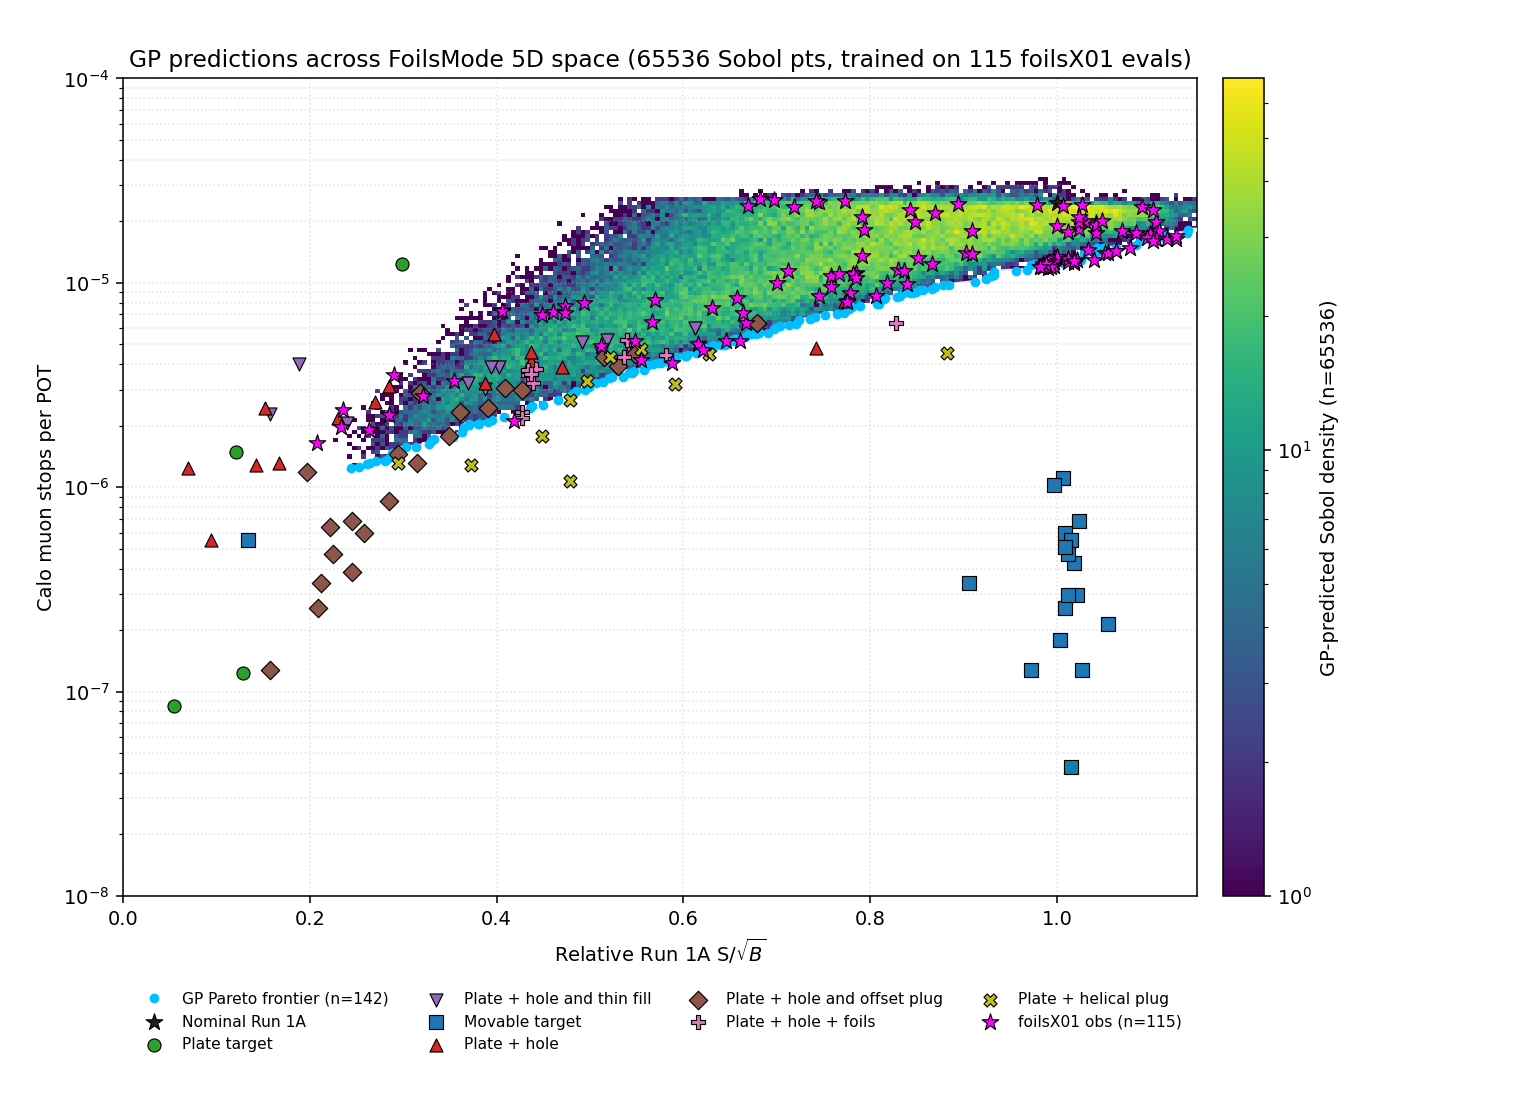
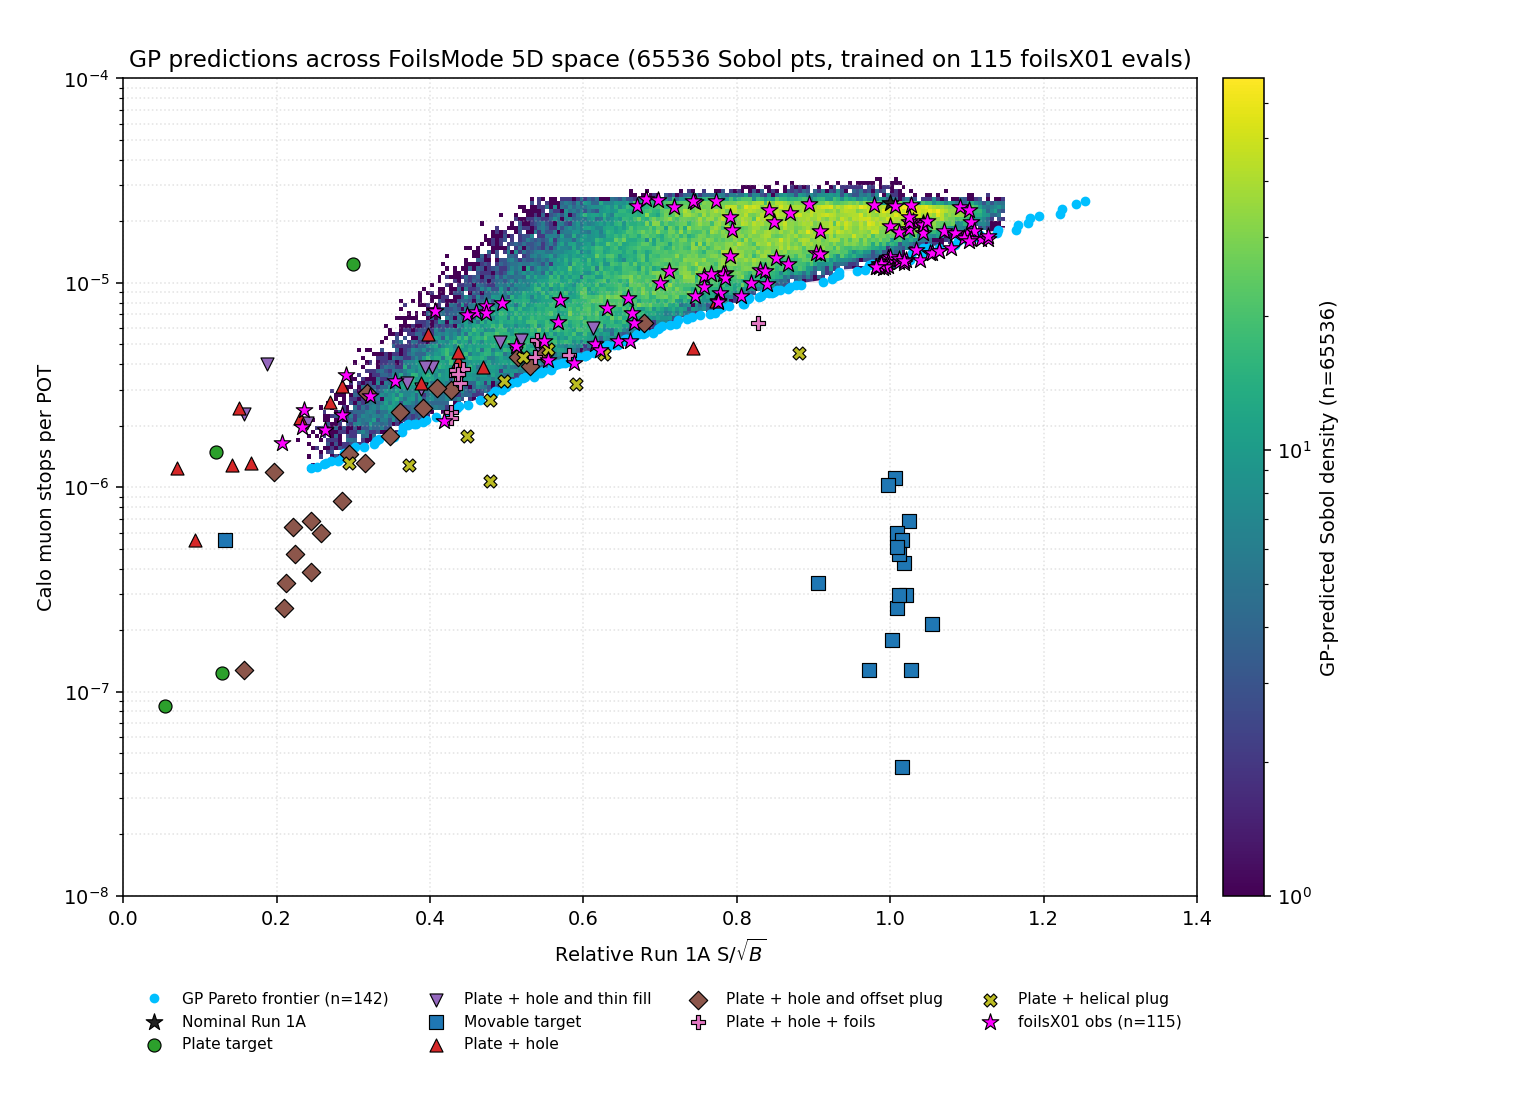
docs: add static GP-cloud slide, widen x-axis to 1.4
cloud_plot.finalize() x-limit 1.15 → 1.4 (GP-predicted Pareto frontier
no longer rails the right edge). Regenerated both the animated GIF and a
new static PNG slide; deck now has one animated + one static cloud panel.

diff --git a/docs/foils_talk.html b/docs/foils_talk.html
@@ -20,7 +20,7 @@ h2 { color: #003366; border-bottom: 2px solid #003366; padding-bottom: 4px; }
 table { font-size: 18px; }
 code { font-size: 18px; }
 pre { font-size: 16px; }
-;" data-marpit-pagination-total="12" data-size="16:9">
+;" data-marpit-pagination-total="13" data-size="16:9">
 <h1 id="foilsmode">FoilsMode</h1>
 <h2 id="5d-bayesian-optimization-of-the-mu2e-stopping-target-foil-stack">5D Bayesian Optimization of the Mu2e Stopping-Target Foil Stack</h2>
 <p><strong>Y. Oksuzian</strong><br />
@@ -40,7 +40,7 @@ h2 { color: #003366; border-bottom: 2px solid #003366; padding-bottom: 4px; }
 table { font-size: 18px; }
 code { font-size: 18px; }
 pre { font-size: 16px; }
-;" data-marpit-pagination-total="12" data-size="16:9">
+;" data-marpit-pagination-total="13" data-size="16:9">
 <h2 id="motivation">Motivation</h2>
 <ul>
 <li>Does modifying the <strong>stopping-target foil stack</strong> buy CE efficiency?</li>
@@ -63,7 +63,7 @@ h2 { color: #003366; border-bottom: 2px solid #003366; padding-bottom: 4px; }
 table { font-size: 18px; }
 code { font-size: 18px; }
 pre { font-size: 16px; }
-;" data-marpit-pagination-total="12" data-size="16:9">
+;" data-marpit-pagination-total="13" data-size="16:9">
 <h2 id="the-physical-knob">The physical knob</h2>
 <p><strong>Base 37-foil stack (deployed v02, pinned):</strong></p>
 <ul>
@@ -90,7 +90,7 @@ h2 { color: #003366; border-bottom: 2px solid #003366; padding-bottom: 4px; }
 table { font-size: 18px; }
 code { font-size: 18px; }
 pre { font-size: 16px; }
-;" data-marpit-pagination-total="12" data-size="16:9">
+;" data-marpit-pagination-total="13" data-size="16:9">
 <h2 id="5d-search-space">5D search space</h2>
 <table>
 <thead>
@@ -143,7 +143,7 @@ h2 { color: #003366; border-bottom: 2px solid #003366; padding-bottom: 4px; }
 table { font-size: 18px; }
 code { font-size: 18px; }
 pre { font-size: 16px; }
-;" data-marpit-pagination-total="12" data-size="16:9">
+;" data-marpit-pagination-total="13" data-size="16:9">
 <h2 id="pipeline">Pipeline</h2>
 <pre is="marp-pre" data-auto-scaling="downscale-only"><code>propose → preflight (G4 surface check)
        → mubeam → run1b_mubeam → concat → mustops_ce
@@ -169,7 +169,7 @@ h2 { color: #003366; border-bottom: 2px solid #003366; padding-bottom: 4px; }
 table { font-size: 18px; }
 code { font-size: 18px; }
 pre { font-size: 16px; }
-;" data-marpit-pagination-total="12" data-size="16:9">
+;" data-marpit-pagination-total="13" data-size="16:9">
 <h2 id="phase-0-preflight-passes-the-extreme-corners">Phase 0: preflight passes the extreme corners</h2>
 <p>Three extreme-corner configs hand-built and run through G4 surface-check <strong>before any grid submit</strong>:</p>
 <table>
@@ -234,7 +234,7 @@ h2 { color: #003366; border-bottom: 2px solid #003366; padding-bottom: 4px; }
 table { font-size: 18px; }
 code { font-size: 18px; }
 pre { font-size: 16px; }
-;" data-marpit-pagination-total="12" data-size="16:9">
+;" data-marpit-pagination-total="13" data-size="16:9">
 <h2 id="run-timeline">Run timeline</h2>
 <table>
 <thead>
@@ -299,7 +299,7 @@ h2 { color: #003366; border-bottom: 2px solid #003366; padding-bottom: 4px; }
 table { font-size: 18px; }
 code { font-size: 18px; }
 pre { font-size: 16px; }
-;" data-marpit-pagination-total="12" data-size="16:9">
+;" data-marpit-pagination-total="13" data-size="16:9">
 <h2 id="gp-cloud-evolution-animated">GP cloud evolution (animated)</h2>
 <div style="display: grid; grid-template-columns: 60% 40%; gap: 20px; align-items: center;">
 <div>
@@ -327,7 +327,34 @@ h2 { color: #003366; border-bottom: 2px solid #003366; padding-bottom: 4px; }
 table { font-size: 18px; }
 code { font-size: 18px; }
 pre { font-size: 16px; }
-;" data-marpit-pagination-total="12" data-size="16:9">
+;" data-marpit-pagination-total="13" data-size="16:9">
+<h2 id="gp-cloud-static-snapshot">GP cloud (static snapshot)</h2>
+<div style="display: grid; grid-template-columns: 60% 40%; gap: 20px; align-items: center;">
+<div>
+<p><img src="gp_predicted_foils_cloud.png" alt="" /></p>
+</div>
+<div>
+<p><strong>Latest frame</strong>, x-axis extended to <strong>Relative S/√B = 1.4</strong> so the<br />
+GP-predicted Pareto frontier no longer rails the right edge. Pinned 37-foil<br />
+base sits near <code>x = 1.0</code>; +12 envelope picks land in the 1.05 – 1.35 band.<br />
+Calo-floor unchanged: best-known config sits at ~1.3 × 10⁻⁶.</p>
+</div>
+</div>
+<footer>FoilsMode — 5D BO on the Mu2e Stopping-Target Foil Stack · Y. Oksuzian · 2026-05-29 (X05 mid-run)</footer>
+</section>
+</foreignObject></svg><svg data-marpit-svg="" viewBox="0 0 1280 720"><foreignObject width="1280" height="720"><section id="10" data-paginate="true" data-footer="FoilsMode — 5D BO on the Mu2e Stopping-Target Foil Stack · Y. Oksuzian · 2026-05-29 (X05 mid-run)" data-theme="default" data-style="section { font-size: 24px; }
+h1 { color: #003366; }
+h2 { color: #003366; border-bottom: 2px solid #003366; padding-bottom: 4px; }
+table { font-size: 18px; }
+code { font-size: 18px; }
+pre { font-size: 16px; }
+" lang="en-US" data-marpit-pagination="10" style="--paginate:true;--footer:FoilsMode — 5D BO on the Mu2e Stopping-Target Foil Stack · Y. Oksuzian · 2026-05-29 (X05 mid-run);--theme:default;--style:section { font-size: 24px; }
+h1 { color: #003366; }
+h2 { color: #003366; border-bottom: 2px solid #003366; padding-bottom: 4px; }
+table { font-size: 18px; }
+code { font-size: 18px; }
+pre { font-size: 16px; }
+;" data-marpit-pagination-total="13" data-size="16:9">
 <h2 id="saturation-diagnostic-post-hoc-fom">Saturation diagnostic (post-hoc FoM)</h2>
 <div style="display: grid; grid-template-columns: 62% 38%; gap: 12px; align-items: center; font-size: 18px;">
 <div>
@@ -346,19 +373,19 @@ SAT when Δbest ≤ ε·R1-gain for last <em>k</em>=2 rounds (ε=0.05).</p>
 </div>
 <footer>FoilsMode — 5D BO on the Mu2e Stopping-Target Foil Stack · Y. Oksuzian · 2026-05-29 (X05 mid-run)</footer>
 </section>
-</foreignObject></svg><svg data-marpit-svg="" viewBox="0 0 1280 720"><foreignObject width="1280" height="720"><section id="10" data-paginate="true" data-footer="FoilsMode — 5D BO on the Mu2e Stopping-Target Foil Stack · Y. Oksuzian · 2026-05-29 (X05 mid-run)" data-theme="default" data-style="section { font-size: 24px; }
+</foreignObject></svg><svg data-marpit-svg="" viewBox="0 0 1280 720"><foreignObject width="1280" height="720"><section id="11" data-paginate="true" data-footer="FoilsMode — 5D BO on the Mu2e Stopping-Target Foil Stack · Y. Oksuzian · 2026-05-29 (X05 mid-run)" data-theme="default" data-style="section { font-size: 24px; }
 h1 { color: #003366; }
 h2 { color: #003366; border-bottom: 2px solid #003366; padding-bottom: 4px; }
 table { font-size: 18px; }
 code { font-size: 18px; }
 pre { font-size: 16px; }
-" lang="en-US" data-marpit-pagination="10" style="--paginate:true;--footer:FoilsMode — 5D BO on the Mu2e Stopping-Target Foil Stack · Y. Oksuzian · 2026-05-29 (X05 mid-run);--theme:default;--style:section { font-size: 24px; }
+" lang="en-US" data-marpit-pagination="11" style="--paginate:true;--footer:FoilsMode — 5D BO on the Mu2e Stopping-Target Foil Stack · Y. Oksuzian · 2026-05-29 (X05 mid-run);--theme:default;--style:section { font-size: 24px; }
 h1 { color: #003366; }
 h2 { color: #003366; border-bottom: 2px solid #003366; padding-bottom: 4px; }
 table { font-size: 18px; }
 code { font-size: 18px; }
 pre { font-size: 16px; }
-;" data-marpit-pagination-total="12" data-size="16:9">
+;" data-marpit-pagination-total="13" data-size="16:9">
 <h2 id="frontier-progress-hv--pareto-front-size">Frontier progress: HV + Pareto-front size</h2>
 <div style="display: grid; grid-template-columns: 50% 50%; gap: 12px; align-items: center; font-size: 17px;">
 <div>
@@ -377,19 +404,19 @@ not just <em>extending</em> the frontier. Healthy churn ≠ saturation.</p>
 <p>Both panels: x = evaluation index in leaderboard (harvest order).</p>
 <footer>FoilsMode — 5D BO on the Mu2e Stopping-Target Foil Stack · Y. Oksuzian · 2026-05-29 (X05 mid-run)</footer>
 </section>
-</foreignObject></svg><svg data-marpit-svg="" viewBox="0 0 1280 720"><foreignObject width="1280" height="720"><section id="11" data-paginate="true" data-footer="FoilsMode — 5D BO on the Mu2e Stopping-Target Foil Stack · Y. Oksuzian · 2026-05-29 (X05 mid-run)" data-theme="default" data-style="section { font-size: 24px; }
+</foreignObject></svg><svg data-marpit-svg="" viewBox="0 0 1280 720"><foreignObject width="1280" height="720"><section id="12" data-paginate="true" data-footer="FoilsMode — 5D BO on the Mu2e Stopping-Target Foil Stack · Y. Oksuzian · 2026-05-29 (X05 mid-run)" data-theme="default" data-style="section { font-size: 24px; }
 h1 { color: #003366; }
 h2 { color: #003366; border-bottom: 2px solid #003366; padding-bottom: 4px; }
 table { font-size: 18px; }
 code { font-size: 18px; }
 pre { font-size: 16px; }
-" lang="en-US" data-marpit-pagination="11" style="--paginate:true;--footer:FoilsMode — 5D BO on the Mu2e Stopping-Target Foil Stack · Y. Oksuzian · 2026-05-29 (X05 mid-run);--theme:default;--style:section { font-size: 24px; }
+" lang="en-US" data-marpit-pagination="12" style="--paginate:true;--footer:FoilsMode — 5D BO on the Mu2e Stopping-Target Foil Stack · Y. Oksuzian · 2026-05-29 (X05 mid-run);--theme:default;--style:section { font-size: 24px; }
 h1 { color: #003366; }
 h2 { color: #003366; border-bottom: 2px solid #003366; padding-bottom: 4px; }
 table { font-size: 18px; }
 code { font-size: 18px; }
 pre { font-size: 16px; }
-;" data-marpit-pagination-total="12" data-size="16:9">
+;" data-marpit-pagination-total="13" data-size="16:9">
 <h2 id="top-configurations-so-far">Top configurations so far</h2>
 <table>
 <thead>
@@ -469,19 +496,19 @@ clustering tightly around the X03 champion, now probing <strong>non-zero rIn (~8
 — frontier tightening, not shifting.</p>
 <footer>FoilsMode — 5D BO on the Mu2e Stopping-Target Foil Stack · Y. Oksuzian · 2026-05-29 (X05 mid-run)</footer>
 </section>
-</foreignObject></svg><svg data-marpit-svg="" viewBox="0 0 1280 720"><foreignObject width="1280" height="720"><section id="12" data-paginate="true" data-footer="FoilsMode — 5D BO on the Mu2e Stopping-Target Foil Stack · Y. Oksuzian · 2026-05-29 (X05 mid-run)" data-theme="default" data-style="section { font-size: 24px; }
+</foreignObject></svg><svg data-marpit-svg="" viewBox="0 0 1280 720"><foreignObject width="1280" height="720"><section id="13" data-paginate="true" data-footer="FoilsMode — 5D BO on the Mu2e Stopping-Target Foil Stack · Y. Oksuzian · 2026-05-29 (X05 mid-run)" data-theme="default" data-style="section { font-size: 24px; }
 h1 { color: #003366; }
 h2 { color: #003366; border-bottom: 2px solid #003366; padding-bottom: 4px; }
 table { font-size: 18px; }
 code { font-size: 18px; }
 pre { font-size: 16px; }
-" lang="en-US" data-marpit-pagination="12" style="--paginate:true;--footer:FoilsMode — 5D BO on the Mu2e Stopping-Target Foil Stack · Y. Oksuzian · 2026-05-29 (X05 mid-run);--theme:default;--style:section { font-size: 24px; }
+" lang="en-US" data-marpit-pagination="13" style="--paginate:true;--footer:FoilsMode — 5D BO on the Mu2e Stopping-Target Foil Stack · Y. Oksuzian · 2026-05-29 (X05 mid-run);--theme:default;--style:section { font-size: 24px; }
 h1 { color: #003366; }
 h2 { color: #003366; border-bottom: 2px solid #003366; padding-bottom: 4px; }
 table { font-size: 18px; }
 code { font-size: 18px; }
 pre { font-size: 16px; }
-;" data-marpit-pagination-total="12" data-size="16:9">
+;" data-marpit-pagination-total="13" data-size="16:9">
 <h2 id="open-questions--next-steps">Open questions / next steps</h2>
 <ul>
 <li><strong>foilsX05</strong> in flight (q=10 × 3 rounds; R0 harvested, R1 on grid).</li>

diff --git a/docs/foils_talk.md b/docs/foils_talk.md
@@ -124,6 +124,26 @@ All three: `total_hits = 1, baseline = 1, managed = 0` — no overlap.
 
 ---
 
+## GP cloud (static snapshot)
+
+<div style="display: grid; grid-template-columns: 60% 40%; gap: 20px; align-items: center;">
+<div>
+
+![w:100%](gp_predicted_foils_cloud.png)
+
+</div>
+<div>
+
+**Latest frame**, x-axis extended to **Relative S/√B = 1.4** so the
+GP-predicted Pareto frontier no longer rails the right edge. Pinned 37-foil
+base sits near `x = 1.0`; +12 envelope picks land in the 1.05 – 1.35 band.
+Calo-floor unchanged: best-known config sits at ~1.3 × 10⁻⁶.
+
+</div>
+</div>
+
+---
+
 ## Saturation diagnostic (post-hoc FoM)
 
 <div style="display: grid; grid-template-columns: 62% 38%; gap: 12px; align-items: center; font-size: 18px;">